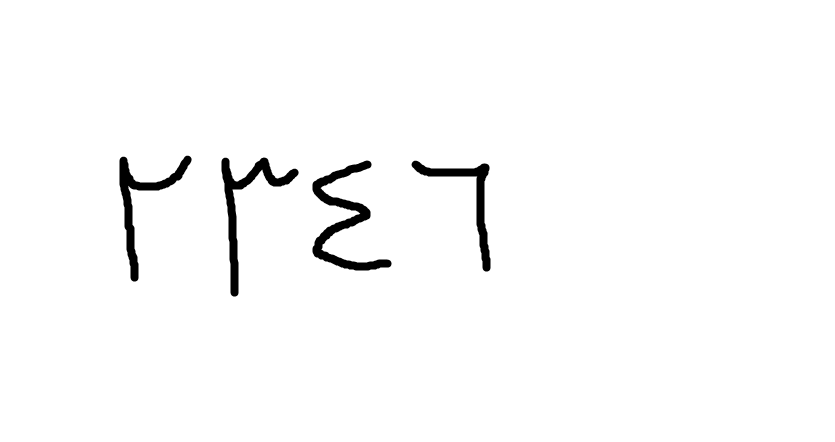
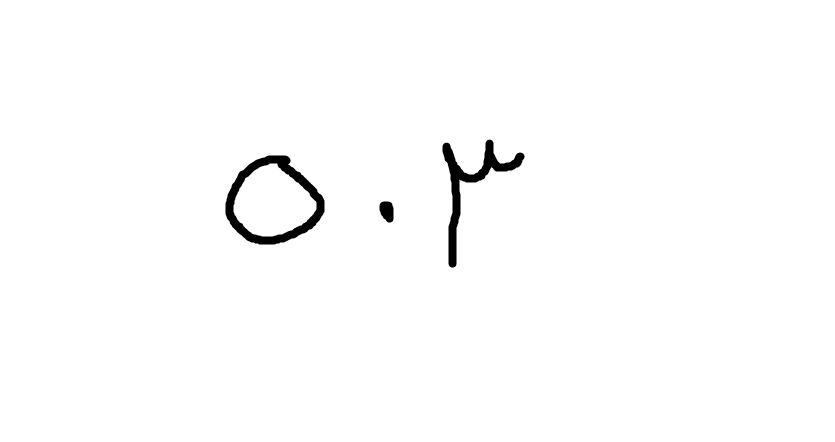
PPTXed

Changed region(s): [[0.218, 0.3235, 0.6228, 0.6765], [0.1246, 0.3529, 0.218, 0.6471]]

diff --git a/Main.py b/Main.py
@@ -1,12 +1,9 @@
 import Train
 import UserTest
 
-# Train.Start(
-#     "Dataset",            # Dataset path
-#     "AHNRmodel.keras"     # Save model
-# )
+# Train.Start("Dataset","AHNRmodel.keras")
 
 UserTest.Start(
-    "./Input/file3.png",             # Test folder path
+    "./Input/file9.png",             # Test folder path
     "AHNRmodel.keras"       # Load model
     )

diff --git a/Train.py b/Train.py
@@ -38,7 +38,7 @@ def Start(DatasetPath,ModelPath):
  
     stopper = tensorflow.keras.callbacks.EarlyStopping(
         monitor='val_loss', 
-        patience=5,                        
+        patience=10,                        
         restore_best_weights=True         
     )
     model.fit(

diff --git a/Narrator.py b/Narrator.py
@@ -43,7 +43,7 @@ def Narrate(i):
             if Divisions: Divisions.append("and")
             Divisions.append(str(Tens))
 
-    Sound = AudioSegment.silent(duration=1000)
+    Sound = AudioSegment.silent(duration=2000)
     for i in Divisions:
         Sound += Get(i)
     play(Sound)

diff --git a/UserTest.py b/UserTest.py
@@ -42,5 +42,5 @@ def Start(BasePath,ModelPath):
     cv2.waitKey(1)
 
     Output = int(Output)
-    sound_thread = threading.Thread(target=Narrate, args=(Output,))
-    sound_thread.start()
+    soundthread = threading.Thread(target=Narrate, args=(Output,))
+    soundthread.start()
